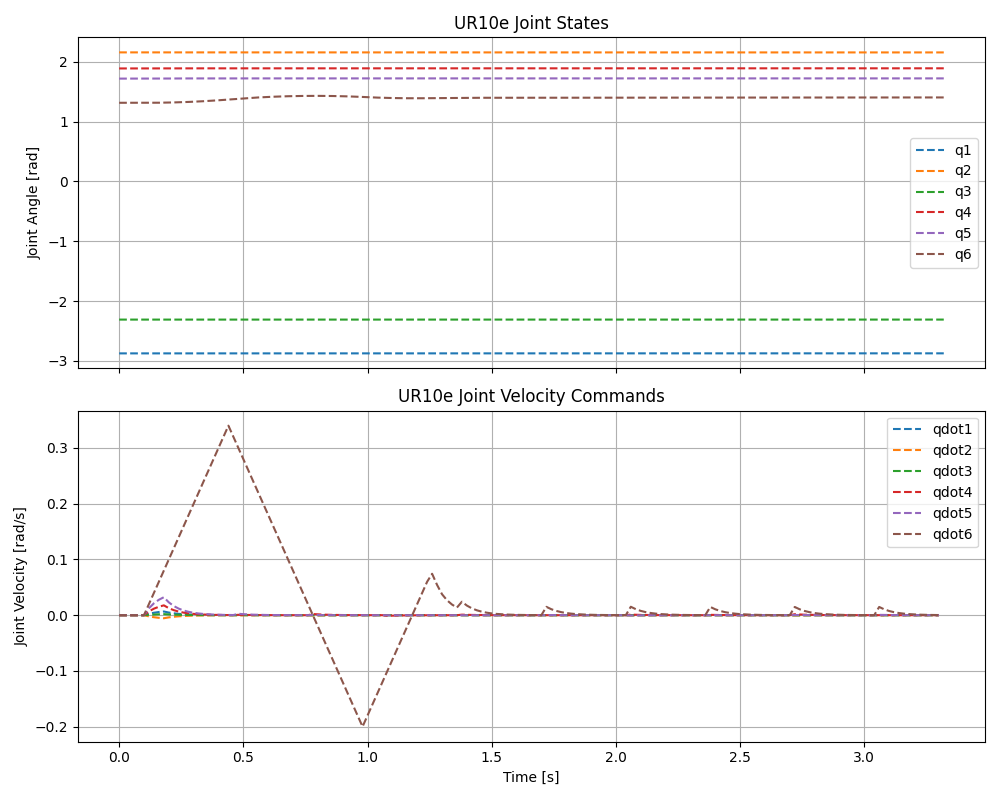
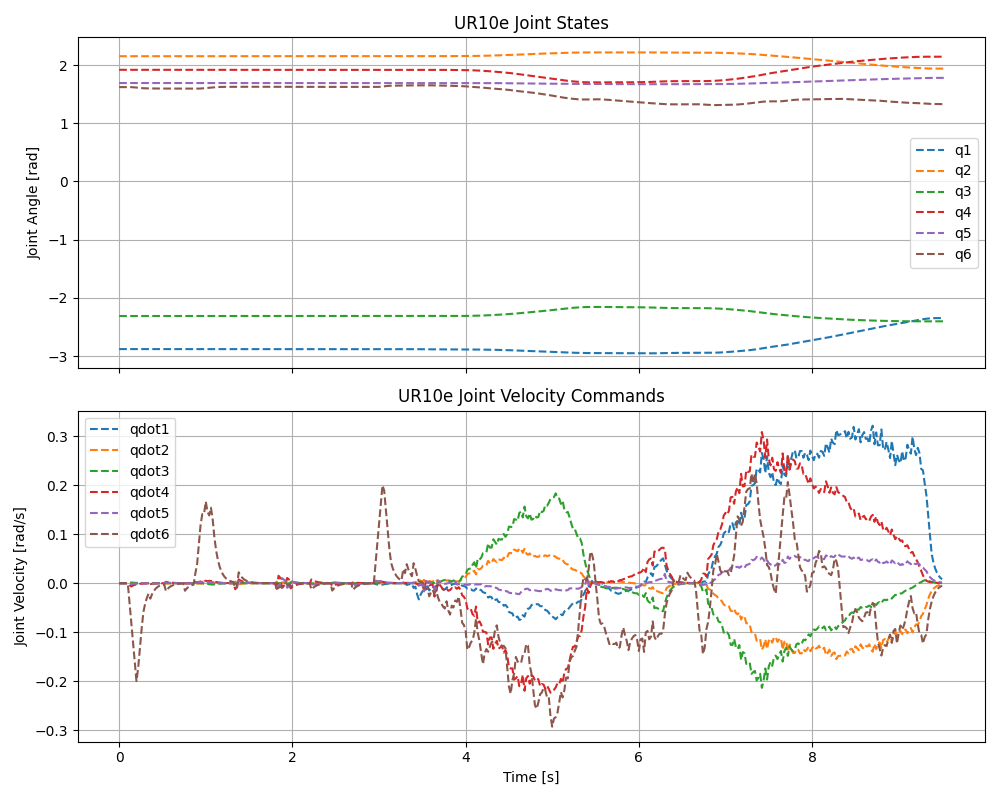
merged

diff --git a/src/combined_main.py b/src/combined_main.py
@@ -20,11 +20,11 @@ except ImportError:
     HAS_URX = False
 
 SAMPLING_RATE = 50 # Hz
-MPC_HORIZON = SAMPLING_RATE // 50 # sec = horizon_samples / sampling_rate
+MPC_HORIZON = SAMPLING_RATE // 30 # sec = horizon_samples / sampling_rate
 # The workspace offset MUST place the robot away from wrist singularities.
 # [0.5, 0.5, 0.5, 0, 0, 0] has zero rotation which aligns wrist axes (singular).
 # Adding a small rotation breaks the singularity and makes IK stable.
-WORKSPACE_OFFSET = pose6_to_T([0.5, 0.3, 0.5, 0.1, 0.2, 0])
+WORKSPACE_OFFSET = pose6_to_T([0.5, 0.3, 0.5, 0.1, 0.2, 0.3])
 
 # ── UR10e joint limits (CHANGE THESE for your actual robot) ──────────────
 # Hardware max from datasheet:
@@ -277,7 +277,9 @@ def run_mpc_background(shared_state, mpc_horizon, status_callback=None):
                             shared_state=shared_state,
                             mpc_horizon=mpc_horizon,
                             dt= 1 / SAMPLING_RATE,
-                            workspace_offset=WORKSPACE_OFFSET
+                            workspace_offset=WORKSPACE_OFFSET,
+                            vj=VJ,
+                            aj=AJ
                         )
                         sim_thread.start()
                     else:
